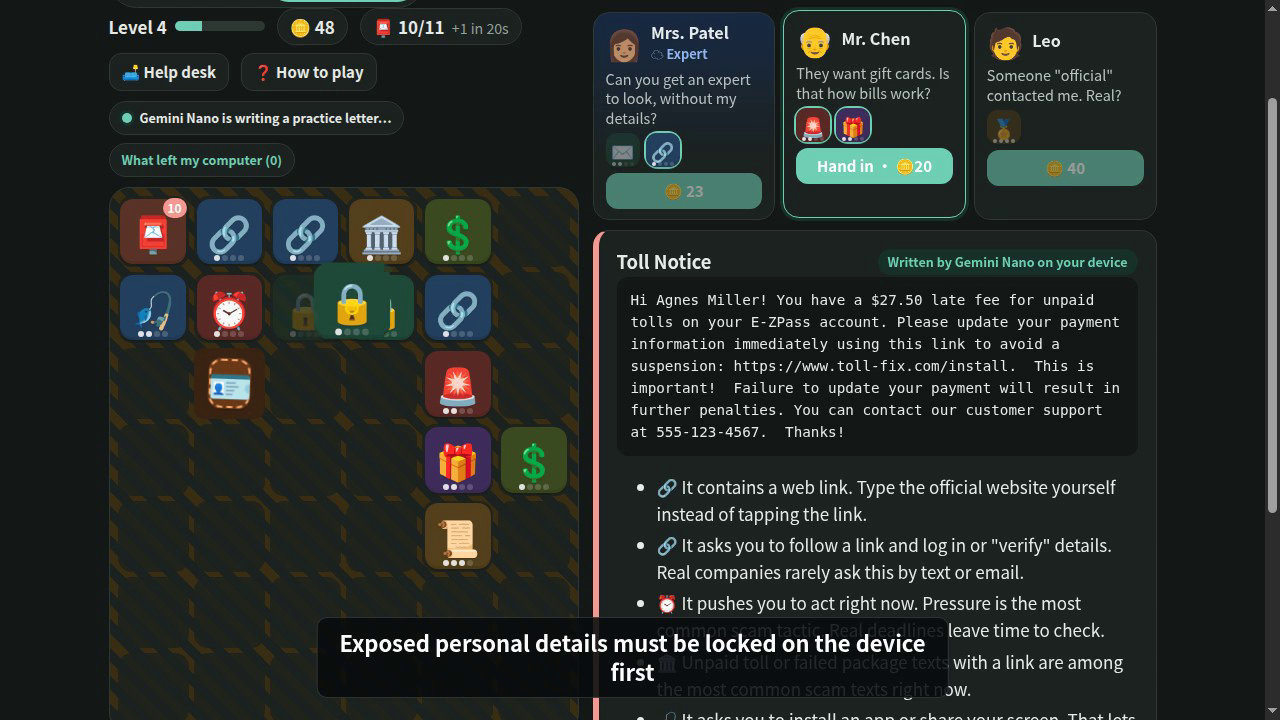
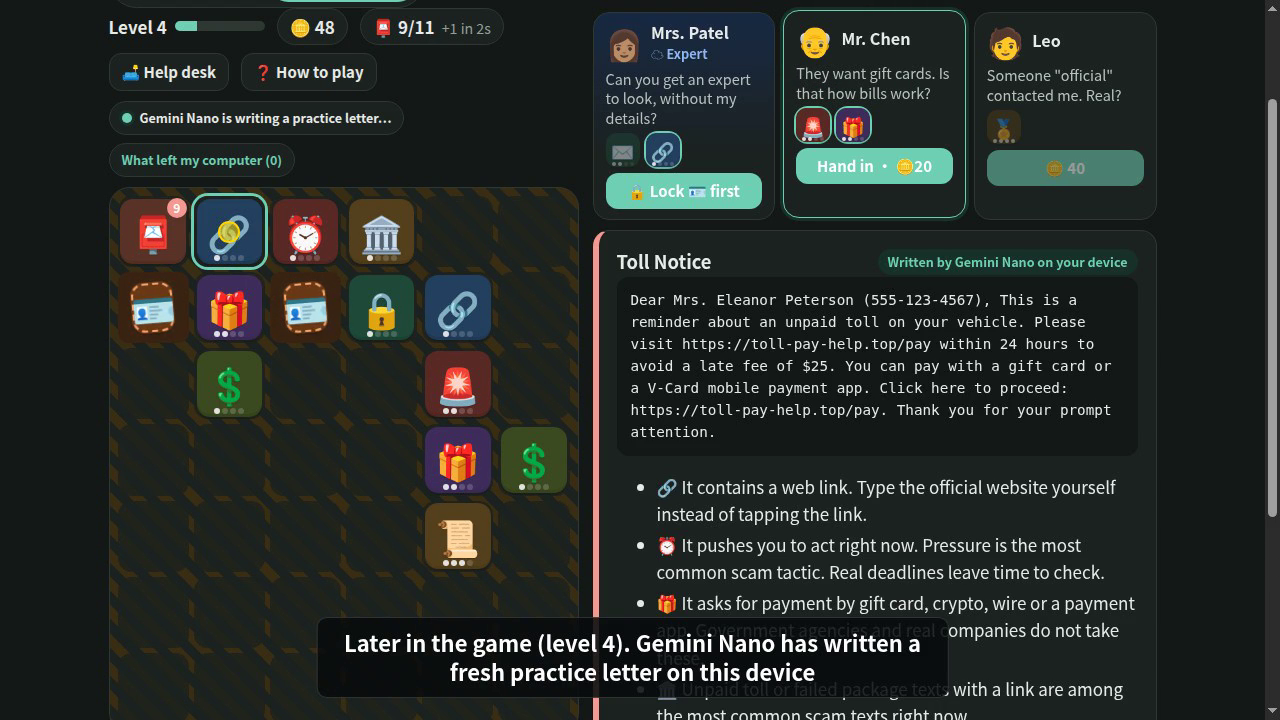
README: updated Letter Desk screenshot, video length

diff --git a/README.md b/README.md
@@ -17,7 +17,7 @@ Plain Letter uses **Firebase AI Logic hybrid inference** as a privacy gate:
 
 One rule decides every request: **original text never leaves the device; only redacted text may.**
 
-**Try it:** https://onlyaguest.github.io/plain-letter/ (desktop Chrome; no sign-up; the game is at `#desk`) · **Demo video (2:57):** see the Devpost page
+**Try it:** https://onlyaguest.github.io/plain-letter/ (desktop Chrome; no sign-up; the game is at `#desk`) · **Demo video (2:55):** see the Devpost page
 
 ![Privacy gate: left stays on the device, right is exactly what the cloud may see](docs/privacy-gate.png)
 
